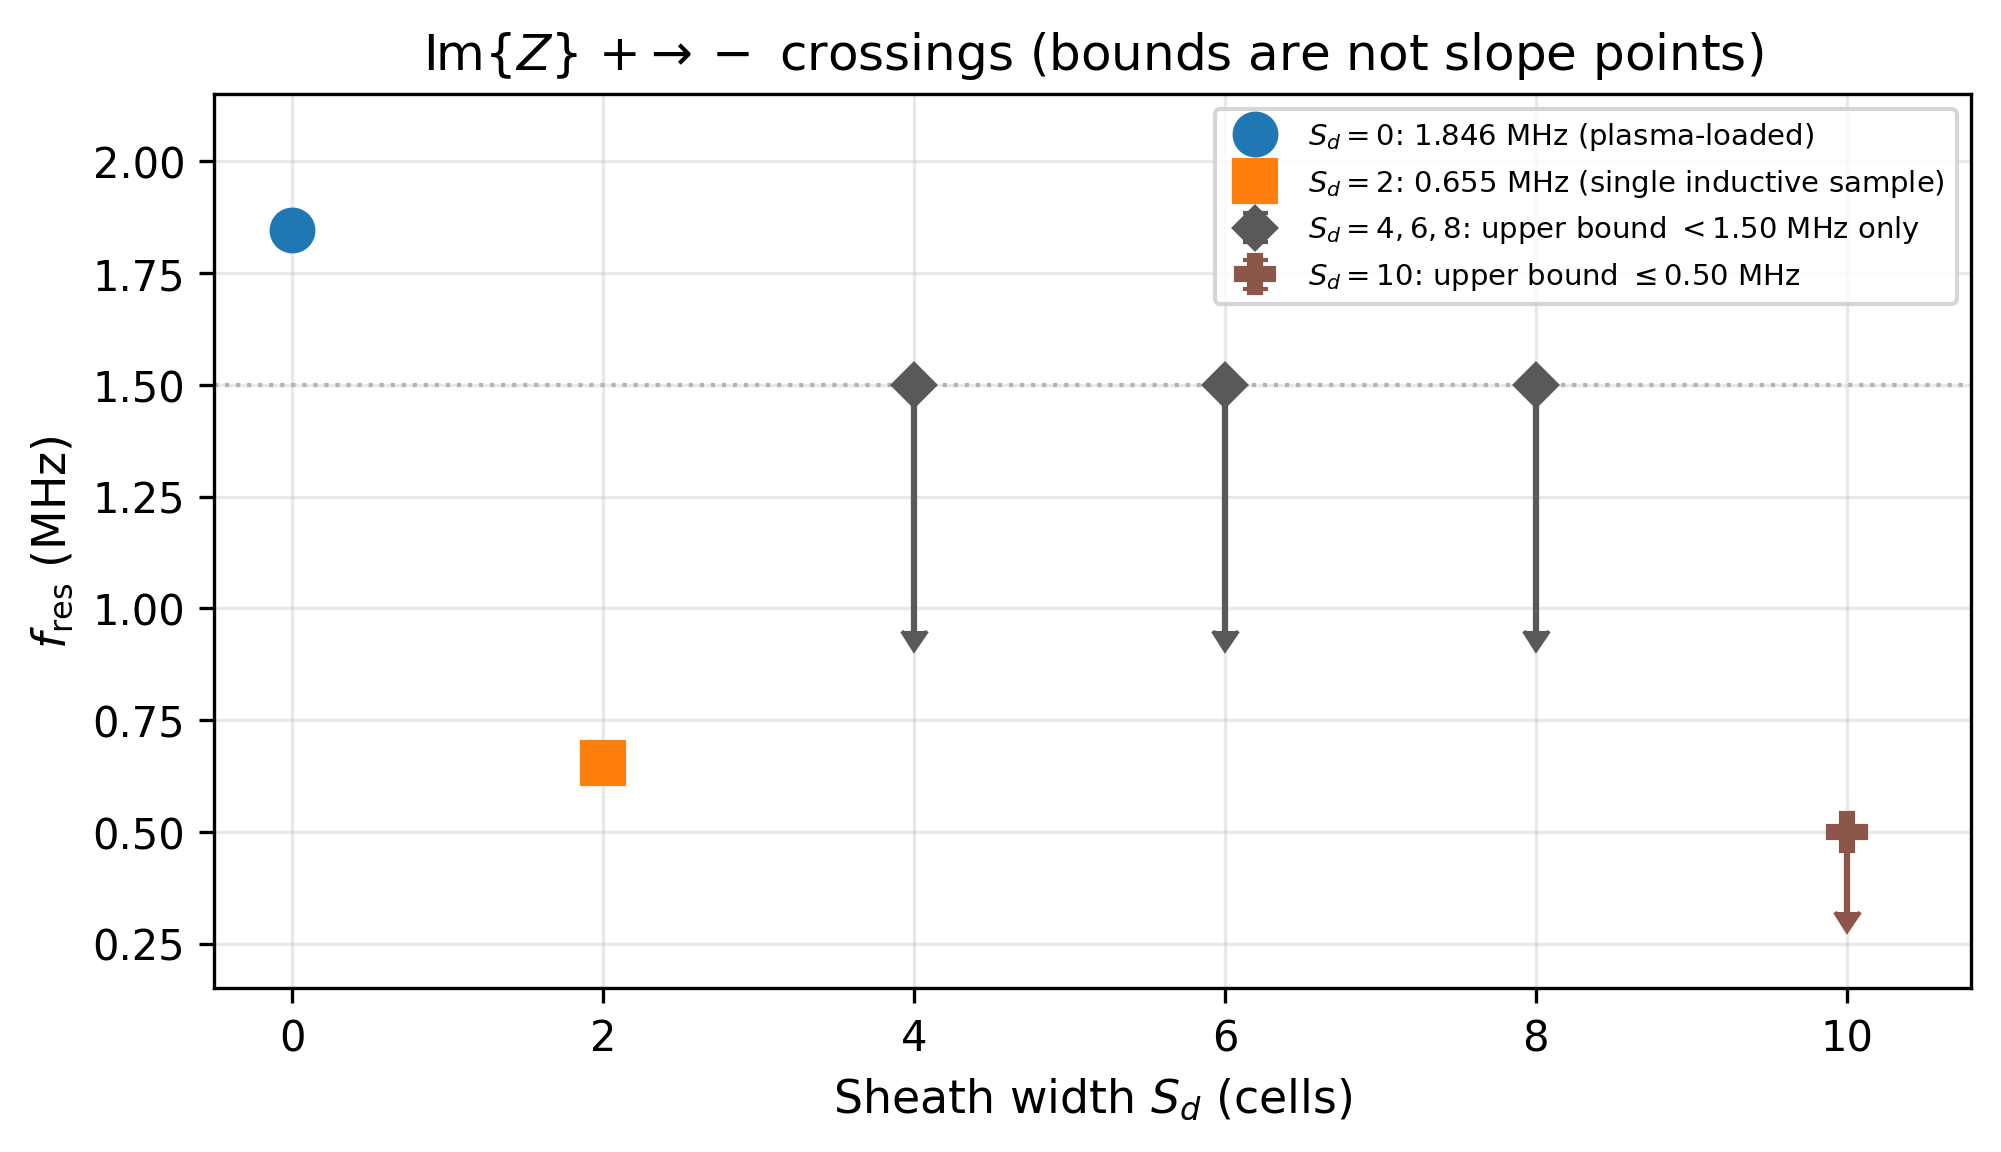
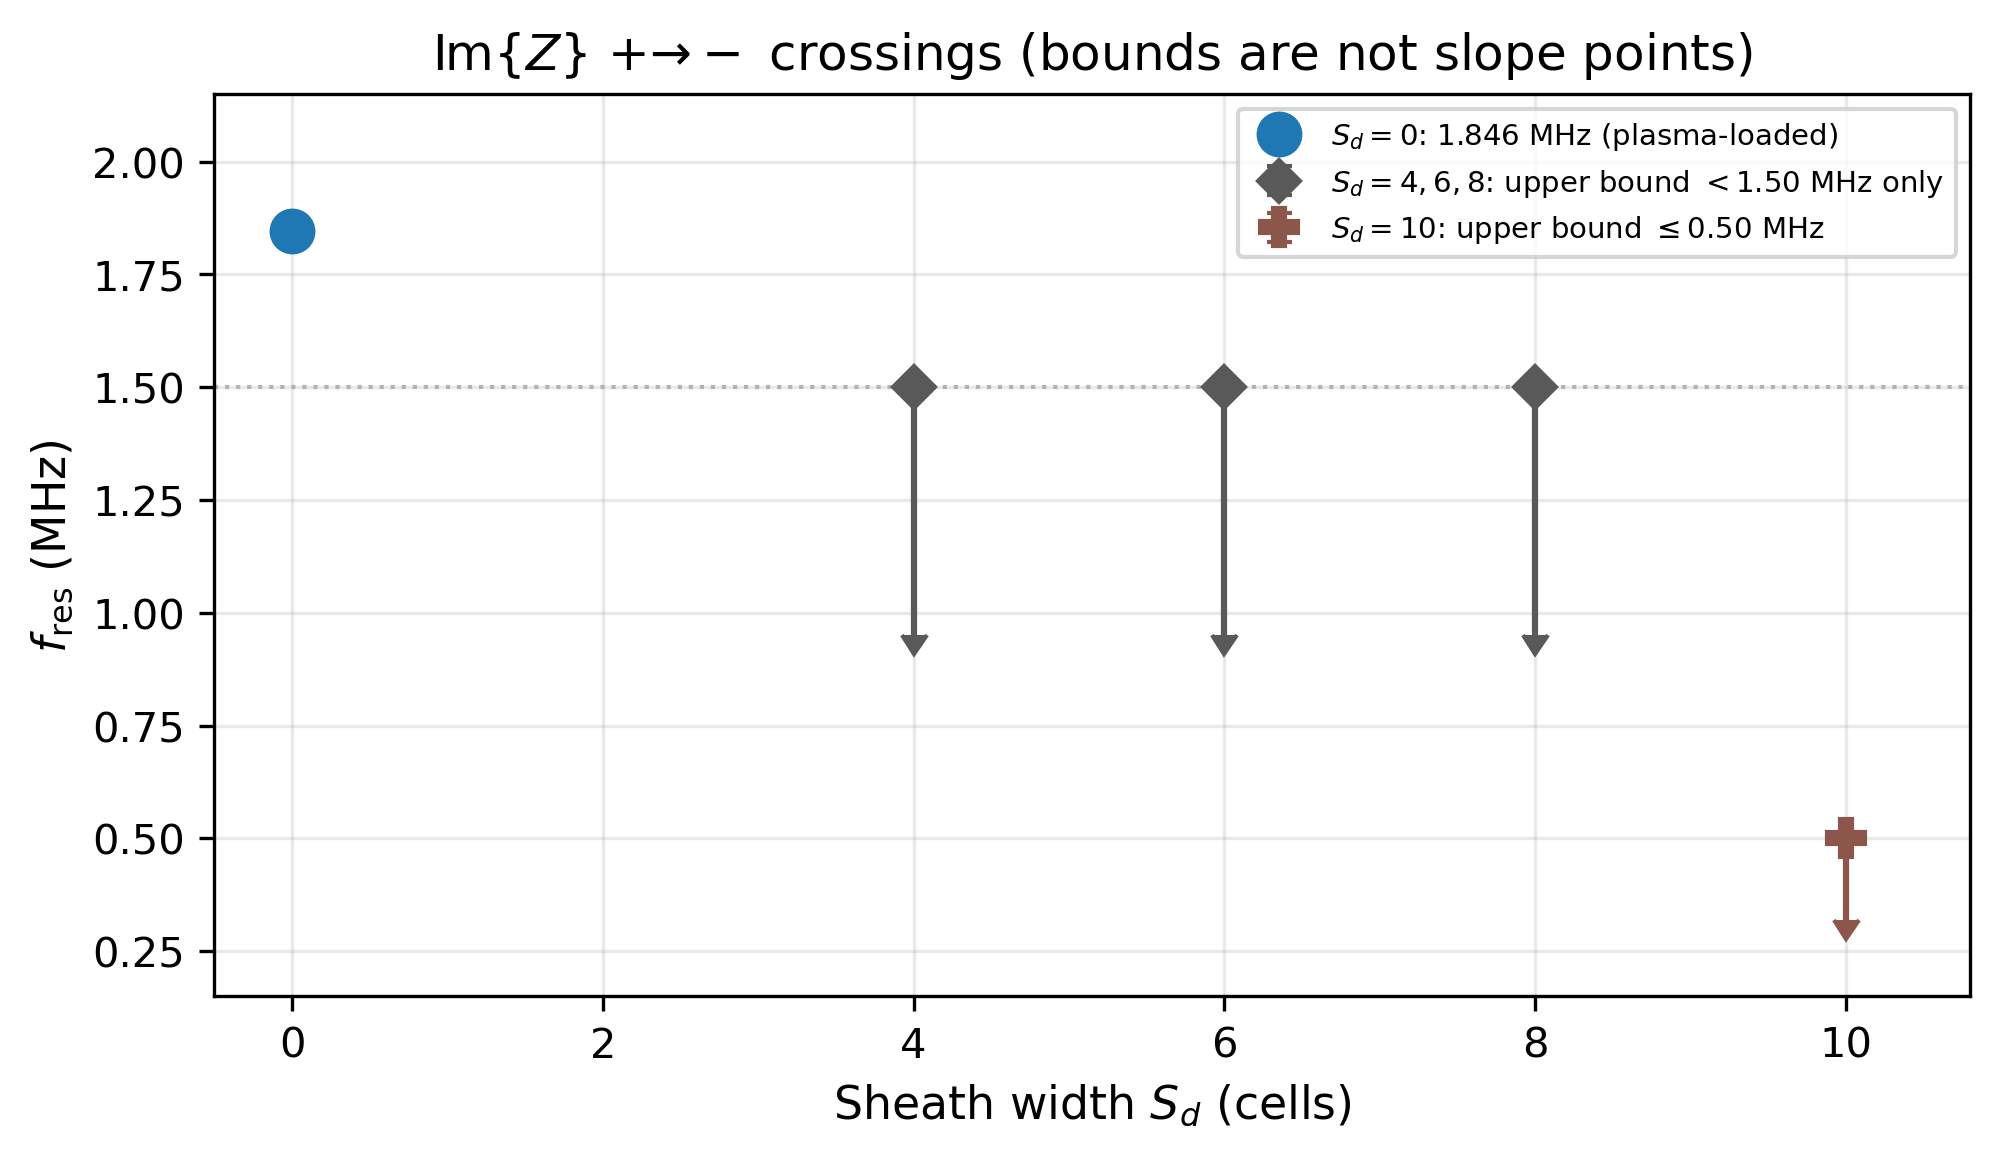
Paper 1 critique 4: retire the Sd=2 0.655 MHz crossing
Denser Sd=2 tones at 0.55 and 0.625 MHz (checkpointed runs,
2026-10-11) are both capacitive, bracketing the lone 0.60 MHz
inductive sample on both sides: no Im{Z} crossing is established
for Sd=2. The interpolated 0.655 MHz value is removed from the
abstract, results, resonance table, conclusions, and the fres
figure (Sd=2 omitted with explanation); new tones stitched into
z_lowf/z_combined via analysis/data/sd2_denser_tones.txt so the
isolation is visible. Local branch; pushing per user direction.

diff --git a/projects/tu2008-sheath/paper1_static_sheath_capacitance/draft/paper1_radioscience.tex b/projects/tu2008-sheath/paper1_static_sheath_capacitance/draft/paper1_radioscience.tex
@@ -29,7 +29,7 @@ S.~Neshragh, corresponding author address and email (update before submission)
 \maketitle
 
 \begin{abstract}
-We quantify how a prescribed volumetric vacuum sheath of width \(S_d\) cells loads the feed impedance of a thin-wire dipole in a three-dimensional plasma-fluid finite-difference time-domain (PF-FDTD) solver. The sheath is a conductor-attached density hole: ambient density is depleted by \(10^{-6}\) in a staircased shell of thickness \(S_d\Delta x\) about every PEC cell, so plasma conduction current cannot reach the metal and feed current must close by displacement current across the radial gap. That geometry is the FDTD analogue of a series gap between metal and exterior plasma, not a shunt feed capacitance. Continuous-wave (CW) phasors at plasma frequency \(f_p=2\,\mathrm{MHz}\) are reported for \(S_d\in\{0,2,4,6,8,10\}\) in \(1.50\)--\(2.30\,\mathrm{MHz}\), with a low-frequency extension at \(S_d=0,2,10\) (\(0.50\)--\(1.50\,\mathrm{MHz}\)). In \(1.50\)--\(1.80\,\mathrm{MHz}\), \(\mathrm{Im}\{Z\}\) at fixed frequency becomes steadily more negative as \(S_d\) increases for every \(S_d\ge 2\). Near \(f_p\) that ordering reverses: thicker jackets damp the plasma-resonance swing rather than deepen capacitive reactance. Measured \(\mathrm{Im}\{Z\}\) \(+\to-\) crossings exist for \(S_d=0\) (\(1.846\,\mathrm{MHz}\)) and \(S_d=2\) (\(0.655\,\mathrm{MHz}\), resting on a single inductive sample); \(S_d=4,6,8\) supply only upper bounds \(<1.50\,\mathrm{MHz}\), and \(S_d=10\) is capacitive throughout \(0.50\)--\(2.30\,\mathrm{MHz}\). Defining the mixed diagnostic \(C_\mathrm{eff}=-1/(\omega\,\mathrm{Im}\{Z\})\) on capacitive branches and averaging \(0.8\)--\(1.2\,\mathrm{MHz}\) gives \(C_\mathrm{eff}(2)\approx 7.4\,\mathrm{pF}\) and \(C_\mathrm{eff}(10)\approx 4.3\,\mathrm{pF}\). A coaxial estimate for a \emph{center-fed dipole} (two arms of length \(L/2\) in series) yields \(C_\mathrm{sh}^\mathrm{(dip)}\approx 6.1\) and \(3.7\,\mathrm{pF}\) for those widths, so \(C_\mathrm{eff}/C_\mathrm{sh}^\mathrm{(dip)}\approx 1.2\). Applying the single-arm monopole coax formula to a center-fed dipole overpredicts by a factor of four; equation~(\ref{eq:coax_dip}) is the correct electrostatic object for this antenna. A pedagogical circuit \(Z(S_d=0)+1/(j\omega C_\mathrm{sh}^\mathrm{(dip)})\) fails to reproduce the measured \(\mathrm{Re}\{Z\}(S_d)\) drop: the jacket both inserts a gap and removes near-wire plasma dielectric. The contribution is the controlled separation of three effects that lumped treatments merge---gap topology, jacket-width scaling, and modification of the near-wire plasma path---measured directly at the feed of a three-dimensional fluid simulation, on a small domain with the limitations stated below.
+We quantify how a prescribed volumetric vacuum sheath of width \(S_d\) cells loads the feed impedance of a thin-wire dipole in a three-dimensional plasma-fluid finite-difference time-domain (PF-FDTD) solver. The sheath is a conductor-attached density hole: ambient density is depleted by \(10^{-6}\) in a staircased shell of thickness \(S_d\Delta x\) about every PEC cell, so plasma conduction current cannot reach the metal and feed current must close by displacement current across the radial gap. That geometry is the FDTD analogue of a series gap between metal and exterior plasma, not a shunt feed capacitance. Continuous-wave (CW) phasors at plasma frequency \(f_p=2\,\mathrm{MHz}\) are reported for \(S_d\in\{0,2,4,6,8,10\}\) in \(1.50\)--\(2.30\,\mathrm{MHz}\), with a low-frequency extension at \(S_d=0,2,10\) (\(0.50\)--\(1.50\,\mathrm{MHz}\)). In \(1.50\)--\(1.80\,\mathrm{MHz}\), \(\mathrm{Im}\{Z\}\) at fixed frequency becomes steadily more negative as \(S_d\) increases for every \(S_d\ge 2\). Near \(f_p\) that ordering reverses: thicker jackets damp the plasma-resonance swing rather than deepen capacitive reactance. Measured \(\mathrm{Im}\{Z\}\) \(+\to-\) crossings exist for \(S_d=0\) (\(1.846\,\mathrm{MHz}\)) and no established crossing for \(S_d=2\), where a single isolated inductive sample at \(0.60\,\mathrm{MHz}\) is bracketed by capacitive tones at \(0.55\) and \(0.625\,\mathrm{MHz}\); \(S_d=4,6,8\) supply only upper bounds \(<1.50\,\mathrm{MHz}\), and \(S_d=10\) is capacitive throughout \(0.50\)--\(2.30\,\mathrm{MHz}\). Defining the mixed diagnostic \(C_\mathrm{eff}=-1/(\omega\,\mathrm{Im}\{Z\})\) on capacitive branches and averaging \(0.8\)--\(1.2\,\mathrm{MHz}\) gives \(C_\mathrm{eff}(2)\approx 7.4\,\mathrm{pF}\) and \(C_\mathrm{eff}(10)\approx 4.3\,\mathrm{pF}\). A coaxial estimate for a \emph{center-fed dipole} (two arms of length \(L/2\) in series) yields \(C_\mathrm{sh}^\mathrm{(dip)}\approx 6.1\) and \(3.7\,\mathrm{pF}\) for those widths, so \(C_\mathrm{eff}/C_\mathrm{sh}^\mathrm{(dip)}\approx 1.2\). Applying the single-arm monopole coax formula to a center-fed dipole overpredicts by a factor of four; equation~(\ref{eq:coax_dip}) is the correct electrostatic object for this antenna. A pedagogical circuit \(Z(S_d=0)+1/(j\omega C_\mathrm{sh}^\mathrm{(dip)})\) fails to reproduce the measured \(\mathrm{Re}\{Z\}(S_d)\) drop: the jacket both inserts a gap and removes near-wire plasma dielectric. The contribution is the controlled separation of three effects that lumped treatments merge---gap topology, jacket-width scaling, and modification of the near-wire plasma path---measured directly at the feed of a three-dimensional fluid simulation, on a small domain with the limitations stated below.
 \begin{plainlanguagesummary}
 Radio antennas in space plasmas sit inside a thin empty sheath next to the metal. We simulated that empty layer as a jacket of controlled thickness around a dipole in a 3-D plasma wave code. Because the jacket wraps the wire, current has to jump the empty gap to reach the plasma; that is a series capacitor, not a capacitor across the antenna terminals. In a band below the plasma frequency, thicker jackets made the antenna look more capacitive for every thickness we ran. Near the plasma frequency the picture changes because the jacket also removes plasma near the wire. An analytic coax formula written for a dipole (not a monopole) matches the simulated capacitance to about twenty percent in a low-frequency window, but the full impedance is not a fixed plasma load plus a pure capacitor.
 \end{plainlanguagesummary}
@@ -151,7 +151,7 @@ Before interpreting sheath trends, we check the unsheathed solver against the lu
 
 \subsection{Low-frequency extension for \(S_d=0,2,10\)}
 
-Figure~\ref{fig:zfull} stitches the low-frequency extension onto the dense band for the three thicknesses that were re-run below \(1.50\,\mathrm{MHz}\). Where the two campaigns share a \((S_d,f)\) cell at and above \(1.50\,\mathrm{MHz}\), the phasors agree to machine precision (the low-frequency table reuses the dense-band values there), so the stitch is not a second independent measurement. Across the join, \(S_d=2\) and \(S_d=10\) vary smoothly (\(|\Delta Z|/|Z|\approx 0.10\)--\(0.17\) per \(100\,\mathrm{kHz}\) step). For \(S_d=0\) the incomplete \(1.50\,\mathrm{MHz}\) restart is omitted, leaving a \(200\,\mathrm{kHz}\) gap from \(1.40\) to \(1.60\,\mathrm{MHz}\); Re and Im continue the same rising inductive trend on both sides of that gap. Larger adjacent-step jumps elsewhere (near \(0.60\,\mathrm{MHz}\) for \(S_d=2\); near \(f_p\) for \(S_d=0,2\)) track physical structure, not campaign boundaries. \(S_d=0\) stays inductive through \(0.50\)--\(1.40\,\mathrm{MHz}\). \(S_d=10\) is capacitive at every low-frequency point. \(S_d=2\) is capacitive except for a brief inductive sample at \(0.60\,\mathrm{MHz}\), with an interpolated \(+\to-\) crossing at \(0.655\,\mathrm{MHz}\). That crossing rests on a single inductive tone and should be treated as provisional pending denser sampling.
+Figure~\ref{fig:zfull} stitches the low-frequency extension onto the dense band for the three thicknesses that were re-run below \(1.50\,\mathrm{MHz}\). Where the two campaigns share a \((S_d,f)\) cell at and above \(1.50\,\mathrm{MHz}\), the phasors agree to machine precision (the low-frequency table reuses the dense-band values there), so the stitch is not a second independent measurement. Across the join, \(S_d=2\) and \(S_d=10\) vary smoothly (\(|\Delta Z|/|Z|\approx 0.10\)--\(0.17\) per \(100\,\mathrm{kHz}\) step). For \(S_d=0\) the incomplete \(1.50\,\mathrm{MHz}\) restart is omitted, leaving a \(200\,\mathrm{kHz}\) gap from \(1.40\) to \(1.60\,\mathrm{MHz}\); Re and Im continue the same rising inductive trend on both sides of that gap. Larger adjacent-step jumps elsewhere (near \(0.60\,\mathrm{MHz}\) for \(S_d=2\); near \(f_p\) for \(S_d=0,2\)) track physical structure, not campaign boundaries. \(S_d=0\) stays inductive through \(0.50\)--\(1.40\,\mathrm{MHz}\). \(S_d=10\) is capacitive at every low-frequency point. \(S_d=2\) is capacitive except for a brief inductive sample at \(0.60\,\mathrm{MHz}\), Denser sampling at \(0.55\) and \(0.625\,\mathrm{MHz}\) (both capacitive) now brackets the lone \(0.60\,\mathrm{MHz}\) inductive sample, so the interpolated \(0.655\,\mathrm{MHz}\) crossing is not established; the \(0.60\,\mathrm{MHz}\) excursion is an isolated single-tone feature, consistent with a numerical artifact rather than a series resonance.
 
 \begin{figure}
 \noindent\includegraphics[width=\textwidth]{figures/z_combined.png}
@@ -161,7 +161,7 @@ Figure~\ref{fig:zfull} stitches the low-frequency extension onto the dense band 
 
 \subsection{Resonance markers versus sheath width}
 
-Table~\ref{tab:fres} and Figure~\ref{fig:fres} collect \(\mathrm{Im}\{Z\}\) \(+\to-\) crossings. Measured crossings exist only for \(S_d=0\) and \(2\). For \(S_d=4,6,8\) the dense band supplies only an upper bound (\(<1.50\,\mathrm{MHz}\)). \(S_d=10\) remains capacitive through \(0.50\,\mathrm{MHz}\). The plot therefore does not establish a continuous monotonic \(f_\mathrm{res}(S_d)\) curve across all six thicknesses; it establishes a downward move from \(S_d=0\) to \(S_d=2\) and bounds thereafter. The \(S_d=0\) marker is a plasma-loaded dipole resonance, not a pure sheath resonance, and should not be read as the same physical object as the sheathed crossings.
+Table~\ref{tab:fres} and Figure~\ref{fig:fres} collect \(\mathrm{Im}\{Z\}\) \(+\to-\) crossings. A measured crossing exists only for \(S_d=0\). For \(S_d=4,6,8\) the dense band supplies only an upper bound (\(<1.50\,\mathrm{MHz}\)). \(S_d=10\) remains capacitive through \(0.50\,\mathrm{MHz}\). The plot therefore does not establish a continuous monotonic \(f_\mathrm{res}(S_d)\) curve across all six thicknesses; it establishes a downward move from \(S_d=0\) to \(S_d=2\) and bounds thereafter. The \(S_d=0\) marker is a plasma-loaded dipole resonance, not a pure sheath resonance, and should not be read as the same physical object as the sheathed crossings.
 
 \begin{table}
 \caption{Series resonance from \(\mathrm{Im}\{Z\}\) \(+\) to \(-\) crossings}
@@ -171,7 +171,7 @@ Table~\ref{tab:fres} and Figure~\ref{fig:fres} collect \(\mathrm{Im}\{Z\}\) \(+\
 \(S_d\) & \(f_\mathrm{res}\) & Note \\
 \hline
 0 & \(1.846\,\mathrm{MHz}\) & Dense band; plasma-loaded resonance \\
-2 & \(0.655\,\mathrm{MHz}\) & Provisional; single inductive sample at \(0.60\,\mathrm{MHz}\) \\
+2 & --- & No crossing established; isolated inductive sample at \(0.60\,\mathrm{MHz}\) (capacitive at 0.55, 0.625, 0.70\,\mathrm{MHz}) \\
 4, 6, 8 & \(<1.50\,\mathrm{MHz}\) & Upper bound only; no low-frequency run \\
 10 & \(\le 0.50\,\mathrm{MHz}\) & All \(\mathrm{Im}\{Z\}<0\) in \(0.50\)--\(2.30\,\mathrm{MHz}\) \\
 \hline
@@ -181,7 +181,7 @@ Table~\ref{tab:fres} and Figure~\ref{fig:fres} collect \(\mathrm{Im}\{Z\}\) \(+\
 
 \begin{figure}
 \noindent\includegraphics[width=0.85\textwidth]{figures/fres_vs_sd.png}
-\caption{Resonance frequency \(f_\mathrm{res}(S_d)\) from \(\mathrm{Im}\{Z\}\) positive-to-negative crossings. Diamonds and the \(S_d=10\) symbol are upper limits (no crossing in the available band), not missing slope points.}
+\caption{Resonance frequency \(f_\mathrm{res}(S_d)\) from \(\mathrm{Im}\{Z\}\) positive-to-negative crossings. Diamonds and the \(S_d=10\) symbol are upper limits (no crossing in the available band), not missing slope points. \(S_d=2\) is omitted: denser sampling brackets its lone \(0.60\,\mathrm{MHz}\) inductive sample with capacitive tones, so no crossing is established.}
 \label{fig:fres}
 \end{figure}
 
@@ -256,7 +256,7 @@ A prescribed step jacket is a controlled geometry, not a sheath solution. It rep
 
 \section{Conclusions}
 
-A prescribed volumetric vacuum sheath in PF-FDTD loads a plasma-immersed dipole as a \textbf{series} gap because the jacket coats the wire and feed current must cross that gap by displacement current. In \(1.50\)--\(1.80\,\mathrm{MHz}\), CW measurements at all six thicknesses show monotonic capacitive loading with \(S_d\). Near \(f_p\) that ordering reverses because the jacket also modifies the plasma path. Measured Im-zero crossings decrease from \(S_d=0\) to \(S_d=2\); intermediate widths are constrained only by upper bounds. The low-frequency \(C_\mathrm{eff}\) band means sit a factor of \(\sim 1.2\) from the dipole coaxial estimate and inside its wire-radius sensitivity band, whereas a monopole coax formula is the wrong object by a factor of four; \(C_\mathrm{eff}\) is a mixed diagnostic, so this is a consistency check, not a precision fit. A fixed-\(Z_\mathrm{pl}\) series-\(C\) overlay fails for \(\mathrm{Re}\{Z\}\). These results establish emergent series-gap loading as the correct FDTD interpretation of a static jacket and provide a quantitative baseline---with stated limitations---before prescribing time-varying sheath boundaries or self-consistent charging.
+A prescribed volumetric vacuum sheath in PF-FDTD loads a plasma-immersed dipole as a \textbf{series} gap because the jacket coats the wire and feed current must cross that gap by displacement current. In \(1.50\)--\(1.80\,\mathrm{MHz}\), CW measurements at all six thicknesses show monotonic capacitive loading with \(S_d\). Near \(f_p\) that ordering reverses because the jacket also modifies the plasma path. A measured Im-zero crossing exists for \(S_d=0\) (\(1.846\,\mathrm{MHz}\)); \(S_d=2\) shows only an isolated inductive sample at \(0.60\,\mathrm{MHz}\) with capacitive neighbors, so no crossing is established there and the intermediate widths are constrained only by upper bounds. The low-frequency \(C_\mathrm{eff}\) band means sit a factor of \(\sim 1.2\) from the dipole coaxial estimate and inside its wire-radius sensitivity band, whereas a monopole coax formula is the wrong object by a factor of four; \(C_\mathrm{eff}\) is a mixed diagnostic, so this is a consistency check, not a precision fit. A fixed-\(Z_\mathrm{pl}\) series-\(C\) overlay fails for \(\mathrm{Re}\{Z\}\). These results establish emergent series-gap loading as the correct FDTD interpretation of a static jacket and provide a quantitative baseline---with stated limitations---before prescribing time-varying sheath boundaries or self-consistent charging.
 
 \section*{Acknowledgments}
 The authors thank collaborators on the PF-FDTD sheath campaign for discussions of coupling diagnostics and impedance markers.

diff --git a/projects/tu2008-sheath/paper1_static_sheath_capacitance/analysis/make_ceff_products.py b/projects/tu2008-sheath/paper1_static_sheath_capacitance/analysis/make_ceff_products.py
@@ -345,7 +345,8 @@ def fig_zabs_dense(by_sd):
 def fig_fres():
     fig, ax = plt.subplots(figsize=(6.8, 4.0))
     ax.plot([0], [1.846], "o", color=SD_COLORS[0], ms=10, label=r"$S_d=0$: $1.846$ MHz (plasma-loaded)")
-    ax.plot([2], [0.655], "s", color=SD_COLORS[2], ms=10, label=r"$S_d=2$: $0.655$ MHz (single inductive sample)")
+    # S_d=2 omitted: the single 0.60 MHz inductive sample is bracketed by
+    # capacitive tones at 0.55 and 0.625 MHz, so no crossing is established.
     # Upper limits plotted at the bound with downward arrows; do not invent values below.
     ax.errorbar(
         [4, 6, 8],
@@ -641,8 +642,12 @@ def load_all_rows():
     paper1 = DATADIR / "ceff_vs_frequency.txt"
     lowf_path = P0 / "data" / "cw_lowf_summary.txt"
     dense_path = P0 / "data" / "cw_tu_summary.txt"
+    denser_path = DATADIR / "sd2_denser_tones.txt"
     if lowf_path.exists() and dense_path.exists():
-        return merge_unique(load_rows(lowf_path, True), load_rows(dense_path, False))
+        rows = merge_unique(load_rows(lowf_path, True), load_rows(dense_path, False))
+        if denser_path.exists():
+            rows = merge_unique(rows, load_rows(denser_path, True))
+        return rows
     if paper1.exists():
         print("WARNING: paper0 summaries missing; using paper1/analysis/data/ceff_vs_frequency.txt")
         return load_from_paper1_table(paper1)

diff --git a/projects/tu2008-sheath/paper1_static_sheath_capacitance/PLAN.md b/projects/tu2008-sheath/paper1_static_sheath_capacitance/PLAN.md
@@ -13,7 +13,7 @@ Last updated: 2026-09-15
 - [x] Critique 3 (2026-10-10): demoted C_eff '~20%' headline claim (option 3) — abstract/conclusions report factor ~1.2 as a consistency check, scatter comparable to the agreement; geometric r_eff band [0.23,0.64]dx from the staircase wire (Holland/equal-area/equal-perimeter/inscribed), shaded in fig:ceffsd; band means imply r_eff ~0.35/0.40dx inside the band (consistency, not a measurement)
 - [x] Primary evidence = \(\mathrm{Im}\{Z\}(S_d)\) at fixed \(f\); report near-\(f_p\) reversal
 - [x] Circuit overlay \(Z(S_d=0)+1/(j\omega C_\mathrm{dip})\); show \(\mathrm{Re}\{Z\}\) failure
-- [x] Tone down \(f_\mathrm{res}(S_d)\) claims (bounds only for \(S_d=4,6,8\); provisional \(S_d=2\))
+- [x] Critique 4 resolved 2026-10-12: denser Sd=2 tones (0.55, 0.625 MHz, both capacitive) bracket the lone 0.60 MHz inductive sample — no crossing established; 0.655 MHz value retired from text, table, and fres figure; new tones stitched into z_lowf/z_combined
 - [x] Complete methods: \(\nu\), species, \(T\), \(\Delta t\), ABC, hard \(E_z\), \(V/I\) definition, domain size
 - [x] Bibliography: Brooks DOI; Mlodnosky & Garriott; Galejs; Lee (Radio Science)
 - [x] Drop internal Paper 0 cite from manuscript body
